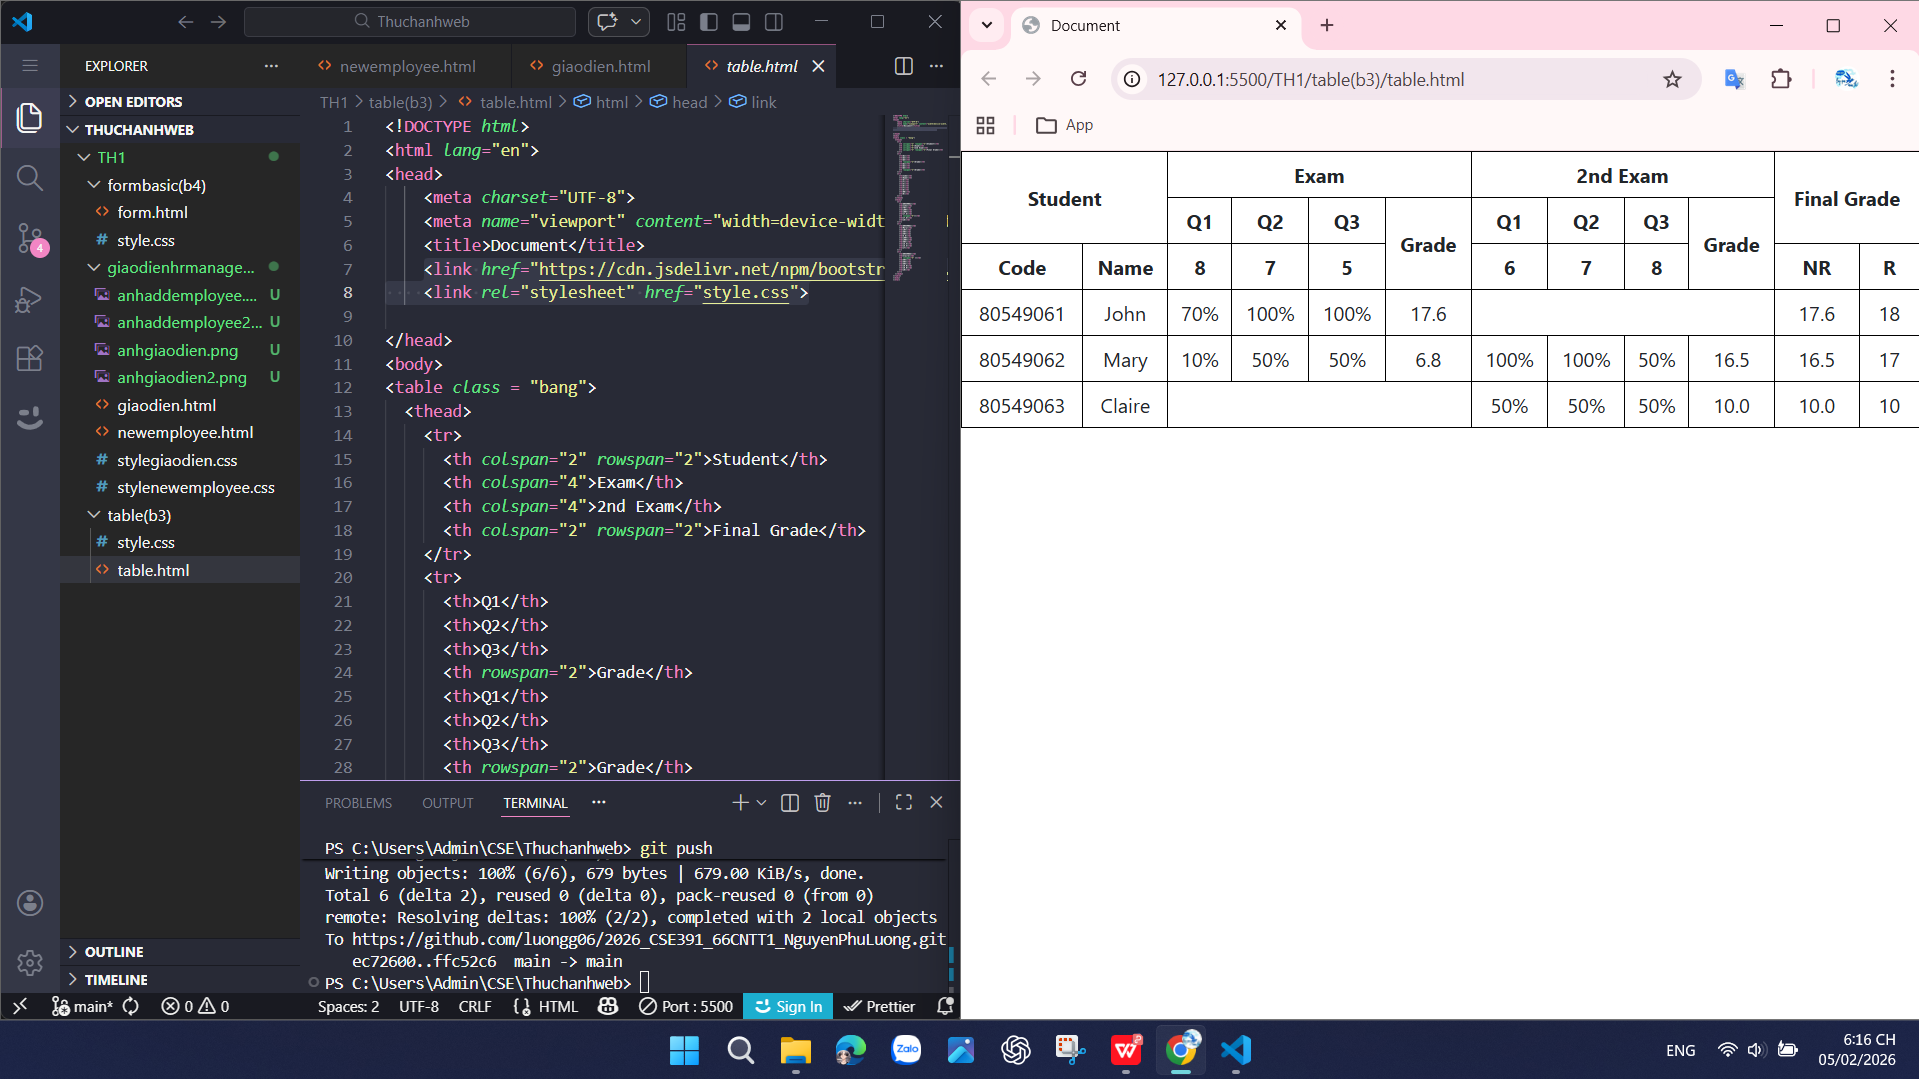
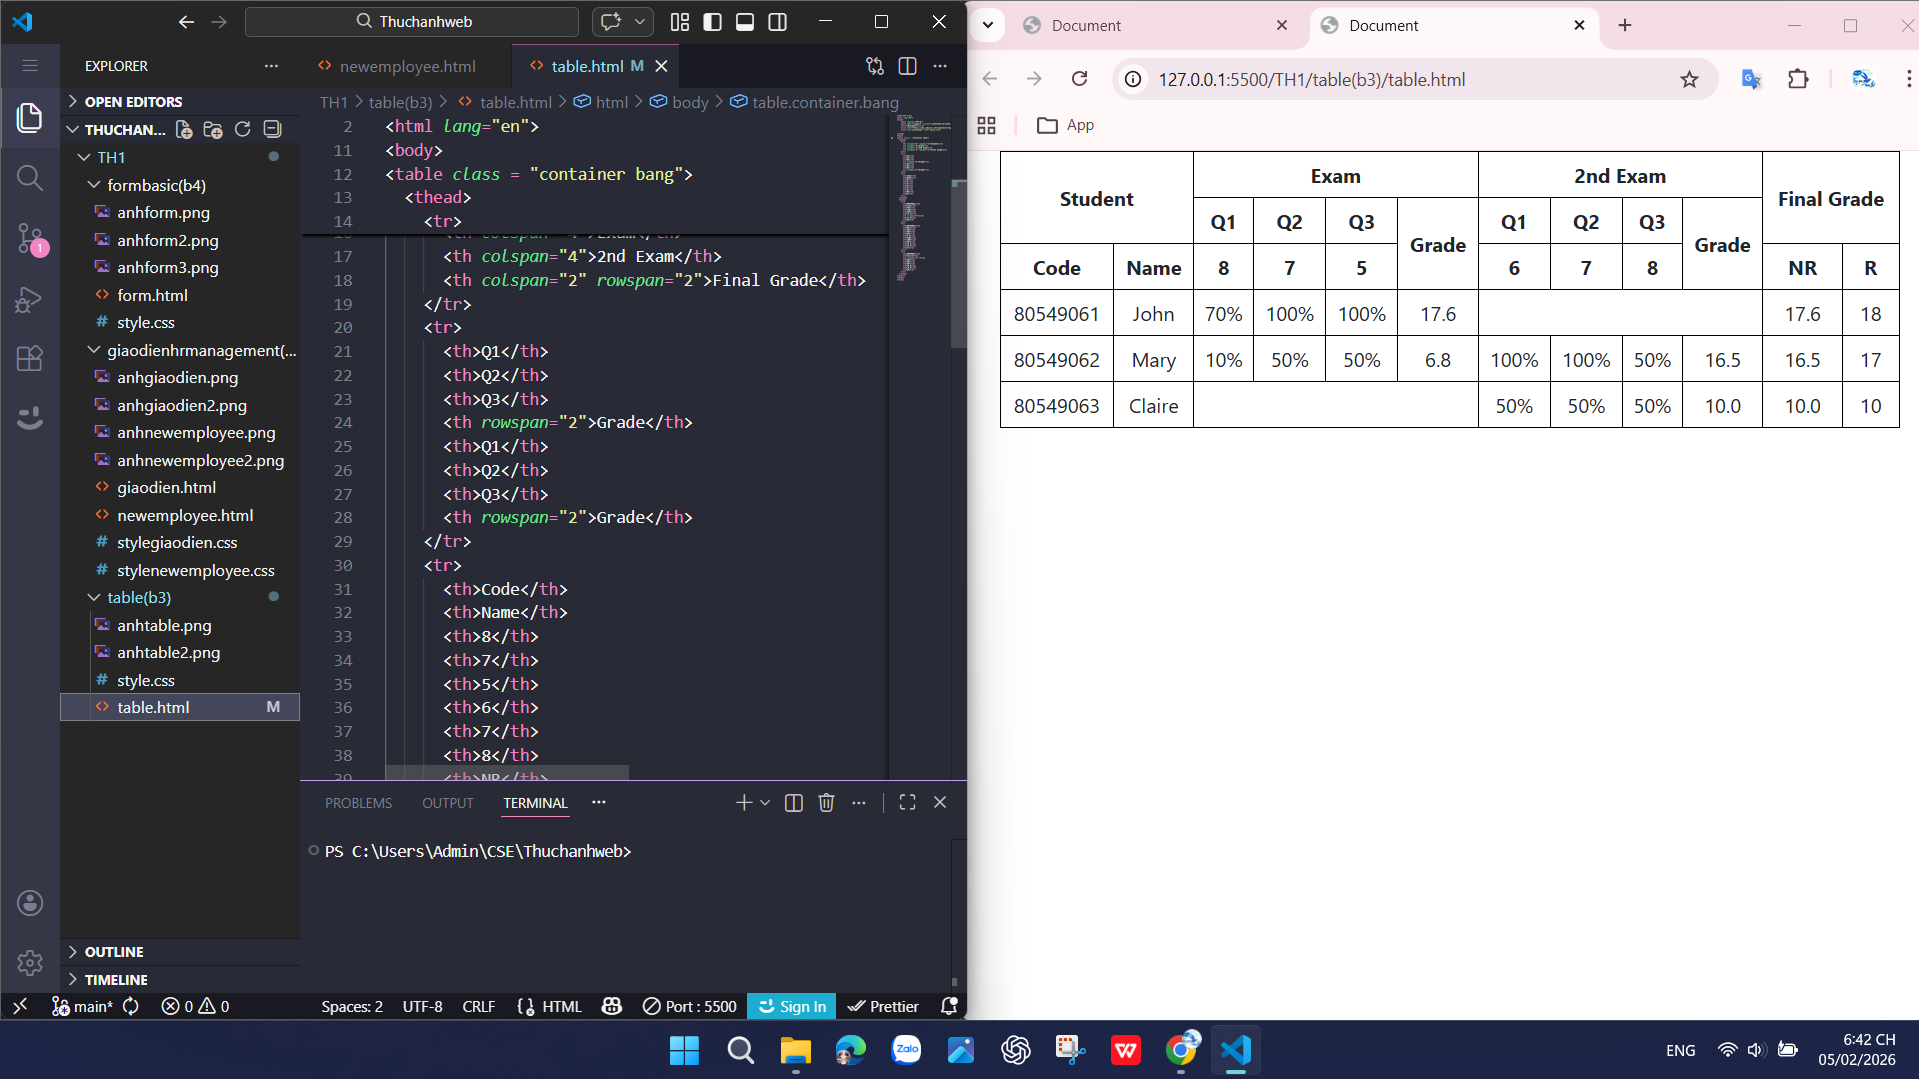
updateimg

diff --git a/TH1/table(b3)/table.html b/TH1/table(b3)/table.html
@@ -9,7 +9,7 @@
 
 </head>
 <body>
-<table class = "bang">
+<table class = "container bang">
   <thead>
     <tr>
       <th colspan="2" rowspan="2">Student</th>
